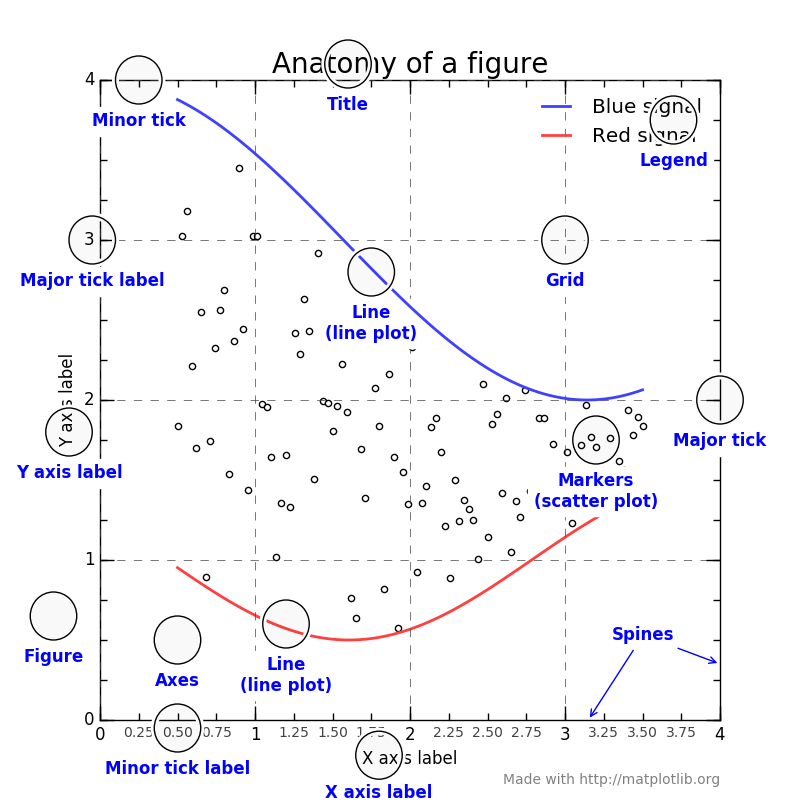
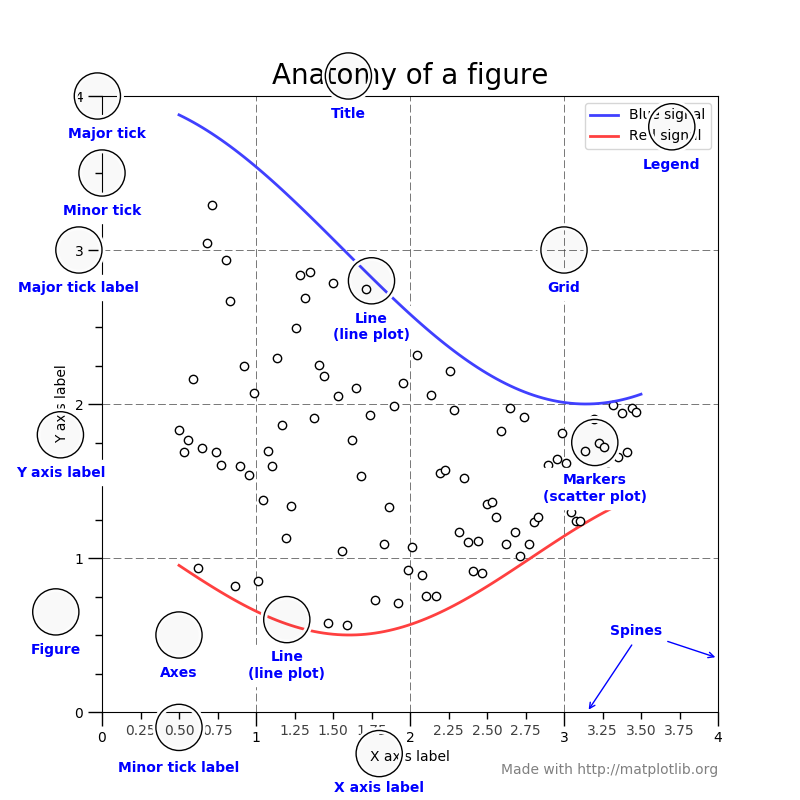
Update anatomy figure for 2.x style changes.
* Enable black edges on scatter markers. Also, use `plot` instead of
  `scatter` for @efiring.
* Move major and minor tick annotation to left side, where they're
  visible.
* Shift tick label and axis label annotations outward to match corrected
  handling of tick length.
* Don't disable legend frame, which is not very distracting any more.
* Don't set figure facecolor, which is already white by default now.
* Use AutoMinorLocator to avoid minor ticks overlaying major ticks,
  causing a small glitch due to antialiasing.

Fixes #7113.

diff --git a/examples/showcase/anatomy.py b/examples/showcase/anatomy.py
@@ -2,16 +2,17 @@
 
 import numpy as np
 import matplotlib.pyplot as plt
-from matplotlib.ticker import MultipleLocator, FuncFormatter
+from matplotlib.ticker import AutoMinorLocator, MultipleLocator, FuncFormatter
 
-np.random.seed(123)
+
+np.random.seed(19680801)
 
 X = np.linspace(0.5, 3.5, 100)
 Y1 = 3+np.cos(X)
 Y2 = 1+np.cos(1+X/0.75)/2
 Y3 = np.random.uniform(Y1, Y2, len(X))
 
-fig = plt.figure(figsize=(8, 8), facecolor="w")
+fig = plt.figure(figsize=(8, 8))
 ax = fig.add_subplot(1, 1, 1, aspect=1)
 
 
@@ -21,9 +22,9 @@ def minor_tick(x, pos):
     return "%.2f" % x
 
 ax.xaxis.set_major_locator(MultipleLocator(1.000))
-ax.xaxis.set_minor_locator(MultipleLocator(0.250))
+ax.xaxis.set_minor_locator(AutoMinorLocator(4))
 ax.yaxis.set_major_locator(MultipleLocator(1.000))
-ax.yaxis.set_minor_locator(MultipleLocator(0.250))
+ax.yaxis.set_minor_locator(AutoMinorLocator(4))
 ax.xaxis.set_minor_formatter(FuncFormatter(minor_tick))
 
 ax.set_xlim(0, 4)
@@ -38,13 +39,14 @@ ax.grid(linestyle="--", linewidth=0.5, color='.25', zorder=-10)
 
 ax.plot(X, Y1, c=(0.25, 0.25, 1.00), lw=2, label="Blue signal", zorder=10)
 ax.plot(X, Y2, c=(1.00, 0.25, 0.25), lw=2, label="Red signal")
-ax.scatter(X, Y3, c='w')
+ax.plot(X, Y3, linewidth=0,
+        marker='o', markerfacecolor='w', markeredgecolor='k')
 
-ax.set_title("Anatomy of a figure", fontsize=20)
+ax.set_title("Anatomy of a figure", fontsize=20, verticalalignment='bottom')
 ax.set_xlabel("X axis label")
 ax.set_ylabel("Y axis label")
 
-ax.legend(frameon=False)
+ax.legend()
 
 
 def circle(x, y, radius=0.15):
@@ -62,32 +64,32 @@ def text(x, y, text):
 
 
 # Minor tick
-circle(0.50, -.05)
-text(0.50, -0.25, "Minor tick label")
+circle(0.50, -0.10)
+text(0.50, -0.32, "Minor tick label")
 
 # Major tick
-circle(4.00, 2.00)
-text(4.00, 1.80, "Major tick")
+circle(-0.03, 4.00)
+text(0.03, 3.80, "Major tick")
 
 # Minor tick
-circle(0.25, 4.00)
-text(0.25, 3.80, "Minor tick")
+circle(0.00, 3.50)
+text(0.00, 3.30, "Minor tick")
 
 # Major tick label
-circle(-0.05, 3.00)
-text(-0.05, 2.80, "Major tick label")
+circle(-0.15, 3.00)
+text(-0.15, 2.80, "Major tick label")
 
 # X Label
-circle(1.80, -0.22)
-text(1.80, -0.4, "X axis label")
+circle(1.80, -0.27)
+text(1.80, -0.45, "X axis label")
 
 # Y Label
-circle(-0.20, 1.80)
-text(-0.20, 1.6, "Y axis label")
+circle(-0.27, 1.80)
+text(-0.27, 1.6, "Y axis label")
 
 # Title
-circle(1.60, 4.10)
-text(1.60, 3.9, "Title")
+circle(1.60, 4.13)
+text(1.60, 3.93, "Title")
 
 # Blue plot
 circle(1.75, 2.80)
@@ -106,8 +108,8 @@ circle(3.00, 3.00)
 text(3.00, 2.80, "Grid")
 
 # Legend
-circle(3.70, 3.75)
-text(3.70, 3.55, "Legend")
+circle(3.70, 3.80)
+text(3.70, 3.60, "Legend")
 
 # Axes
 circle(0.5, 0.5)
